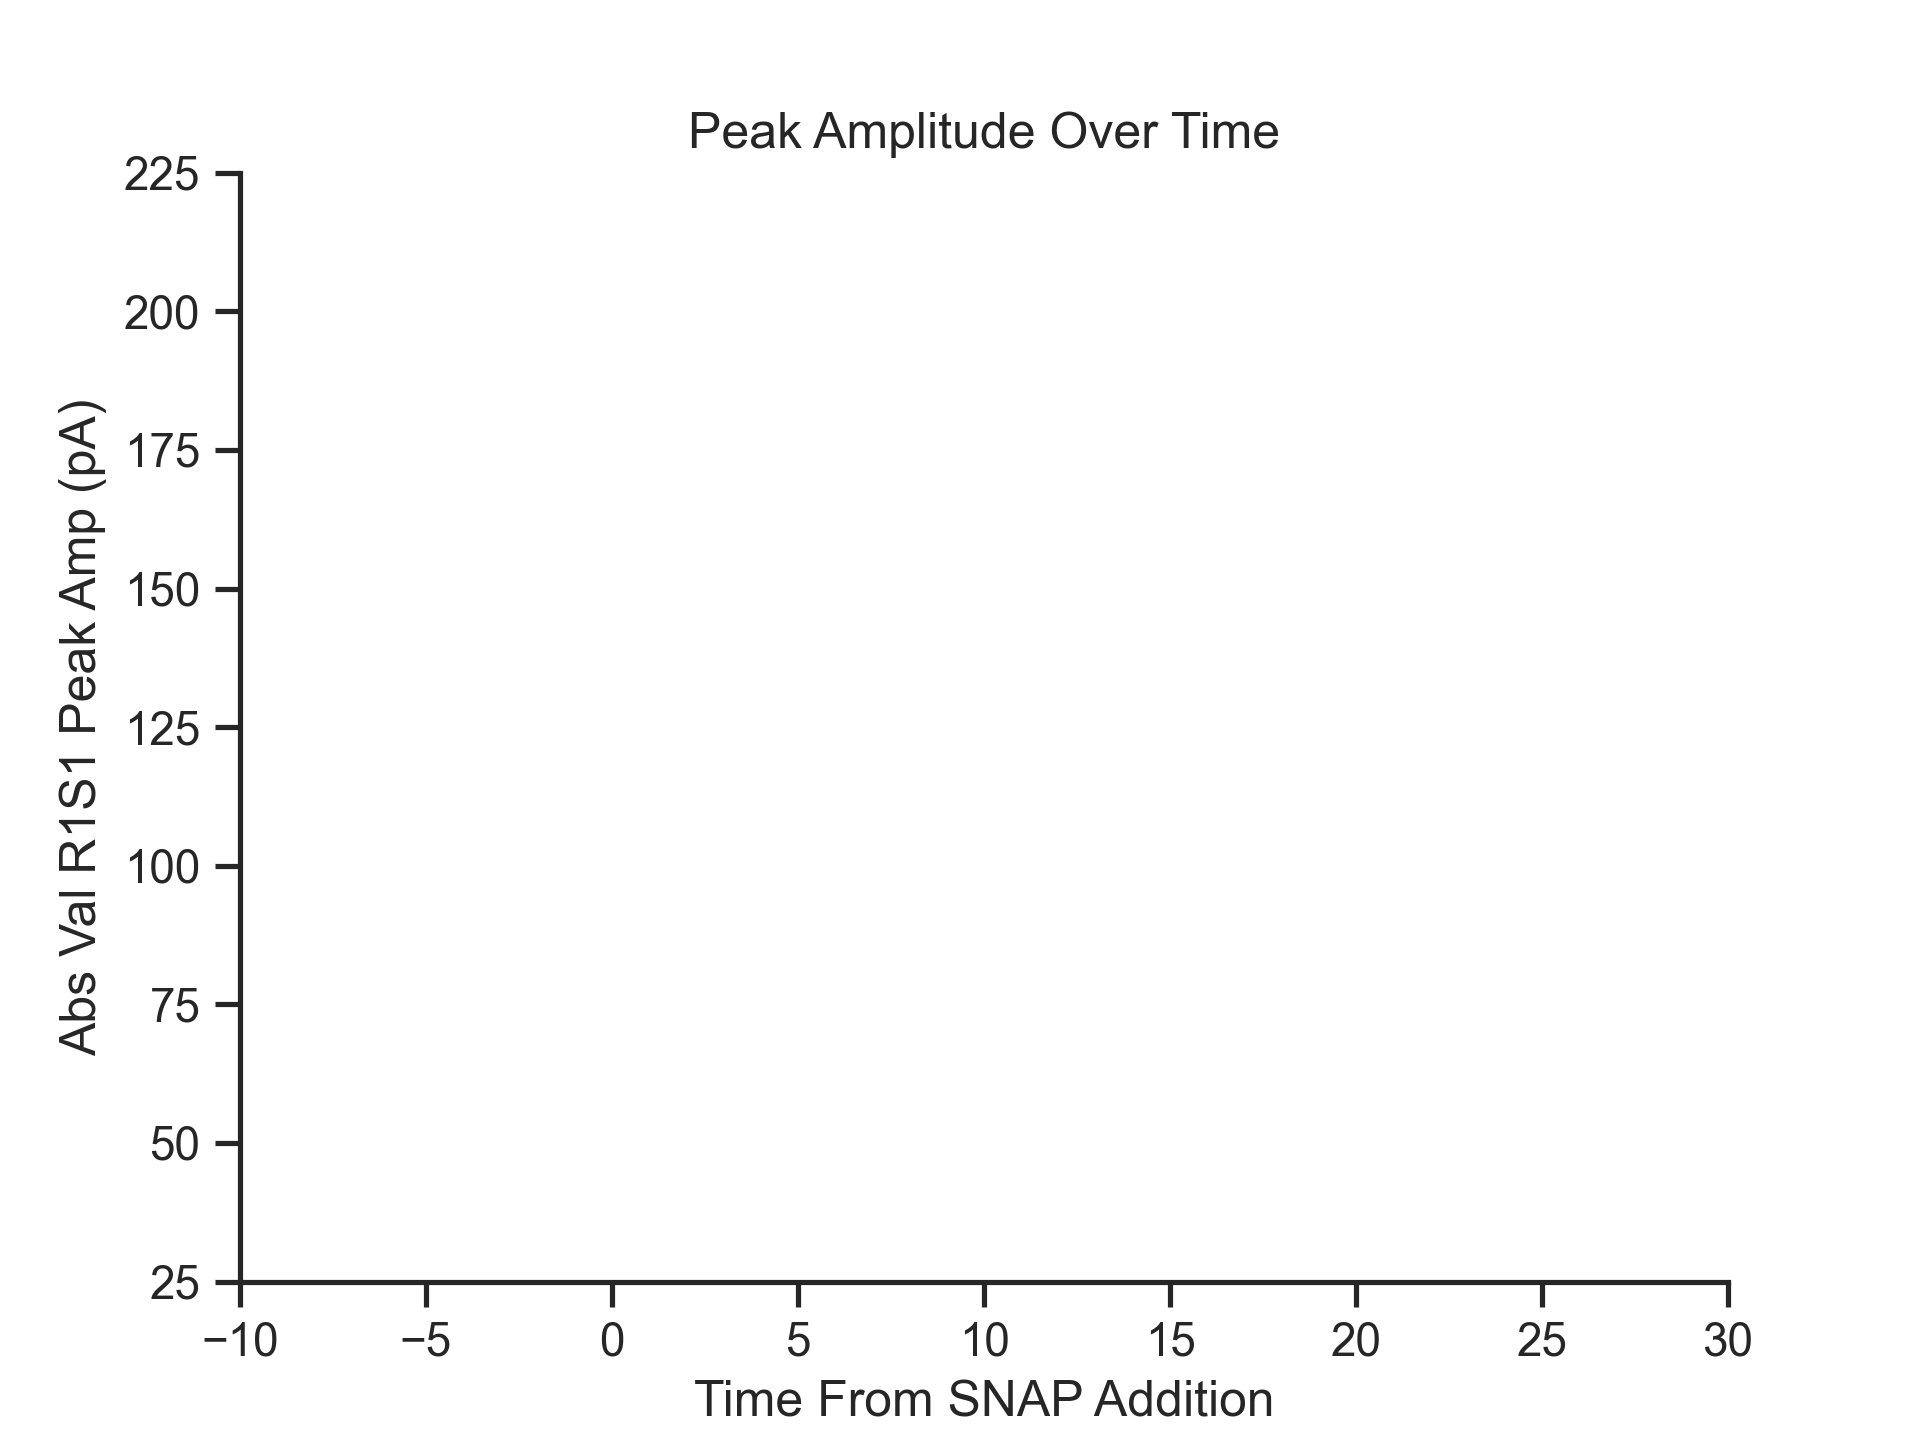
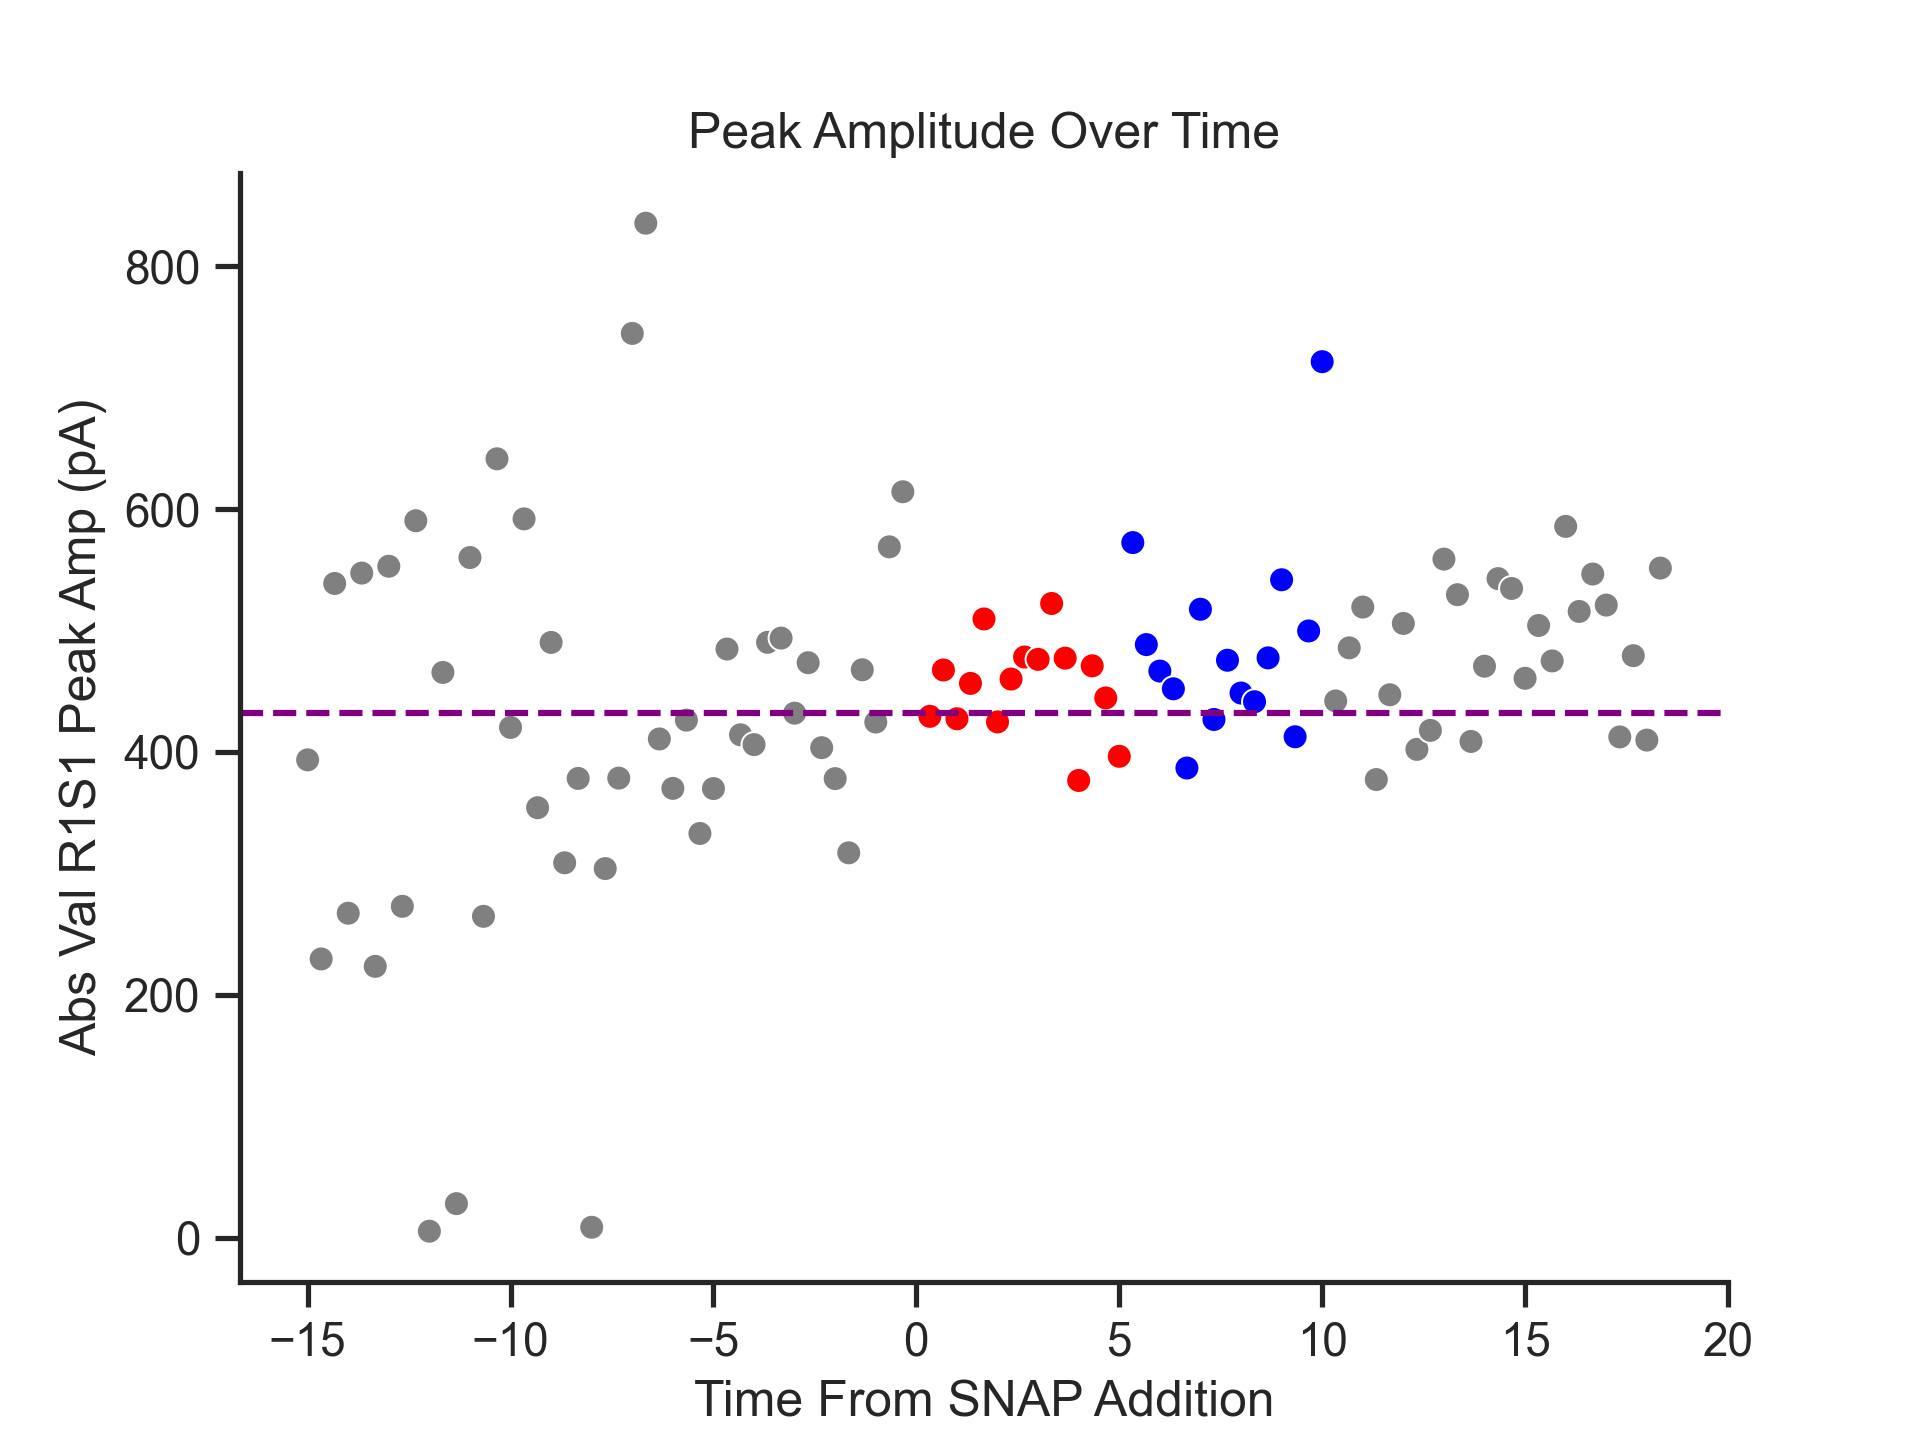
ta dah

diff --git a/E-PhysAnalyzer2/Analysis.py b/E-PhysAnalyzer2/Analysis.py
@@ -244,29 +244,29 @@ class MainProgram:
 
     def make_graphs(self, dpi: int, baseline: bool, baseline_color: str, axis_limits: list):
         # Creates the Minute Averaged graph
-        # with open('Minute_Averaged.tsv', 'r') as data:
-        #     gdata = pd.read_csv(data, sep = '\t')
-        #     headers = list(gdata.columns)
-        #     sns.set(rc={'savefig.dpi': dpi})
-        #     sns.set_theme(style='ticks')
-        #     color_list = []            
-        #     for index, row in gdata.iterrows():
-        #         if row[headers[3]] not in color_list: color_list.append(row[headers[3]])
-        #     sns.set_palette(sns.color_palette(color_list))
-        #     g = sns.scatterplot(x=headers[0], y=headers[1], hue=headers[3], data=gdata, legend=False)
-        #     if baseline:
-        #         g.axhline(100, color=baseline_color).set_linestyle("--")
-        #         basedline = True
-        #     else:
-        #         basedline = False
-        #     g.set(xlim=(axis_limits[0], axis_limits[1]))
-        #     g.set(ylim=(axis_limits[2], axis_limits[3]))
-        #     g.set(title=f"Minute Averages Normalized to Baseline")
-        #     sns.despine()
-        #     graph1 = g.get_figure()
-        #     graph1.savefig('Minute_Averages.png')
-        #     importlib.reload(plt)
-        #     importlib.reload(sns)
+        with open('Minute_Averaged.tsv', 'r') as data:
+            gdata = pd.read_csv(data, sep = '\t')
+            headers = list(gdata.columns)
+            sns.set(rc={'savefig.dpi': dpi})
+            sns.set_theme(style='ticks')
+            color_list = []            
+            for index, row in gdata.iterrows():
+                if row[headers[3]] not in color_list: color_list.append(row[headers[3]])
+            sns.set_palette(sns.color_palette(color_list))
+            g = sns.scatterplot(x=headers[0], y=headers[1], hue=headers[3], data=gdata, legend=False)
+            if baseline:
+                g.axhline(100, color=baseline_color).set_linestyle("--")
+                baseline = True
+            else:
+                baseline = False
+            g.set(xlim=(axis_limits[0], axis_limits[1]))
+            g.set(ylim=(axis_limits[2], axis_limits[3]))
+            g.set(title=f"Minute Averages Normalized to Baseline")
+            sns.despine()
+            graph1 = g.get_figure()
+            graph1.savefig('Minute_Averages.png')
+            importlib.reload(plt)
+            importlib.reload(sns)
 
         # Creates the Post Analysis graph
         with open('Post_Analysis.tsv', 'r') as data2:
@@ -279,13 +279,12 @@ class MainProgram:
                 if row[headers2[7]] not in color_list2: color_list2.append(row[headers2[7]])
             sns.set_palette(sns.color_palette(color_list2))
             g2 = sns.scatterplot(x=headers2[6], y=headers2[4], data=gdata2, hue=headers2[7], legend=False)
-            baseline_string = re.split("\(|\)", headers2[5])
-            baseline = float(baseline_string[1])
-            baseline_int = int(baseline)
+            baseline_float = float(re.split("\(|\)", headers2[5])[1])
             if baseline:
-                g2.axhline(baseline_int, color=baseline_color).set_linestyle("--")
+                g2.axhline(baseline_float, color=baseline_color).set_linestyle("--")
+                baseline = True
             else:
-                pass
+                baseline = False
             g2.set(title=f"Peak Amplitude Over Time")
             g2.set(xlim=(axis_limits[4], axis_limits[5]))
             g2.set(ylim=(axis_limits[6], axis_limits[7]))
@@ -311,7 +310,7 @@ main_program.analyze_data(file, drug_name, when_drug, excluded_traces, z_limit, 
 dpi = 300
 baseline = 10
 baseline_color = 'purple'
-axis_limits = [-user_baseline, 30, 25, 225, -user_baseline, 30, 25, 225]
+axis_limits = [-user_baseline, 30, 25, 225, -user_baseline, 30, 0, 1000]
 
 
 main_program.make_graphs(dpi, baseline, baseline_color, axis_limits)
